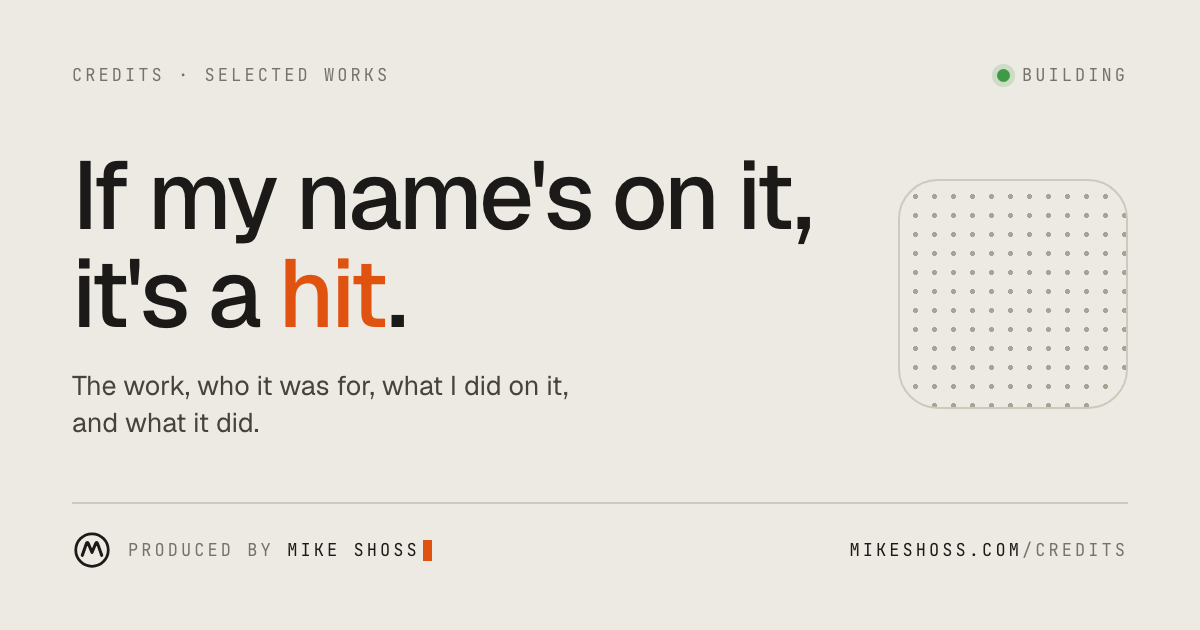
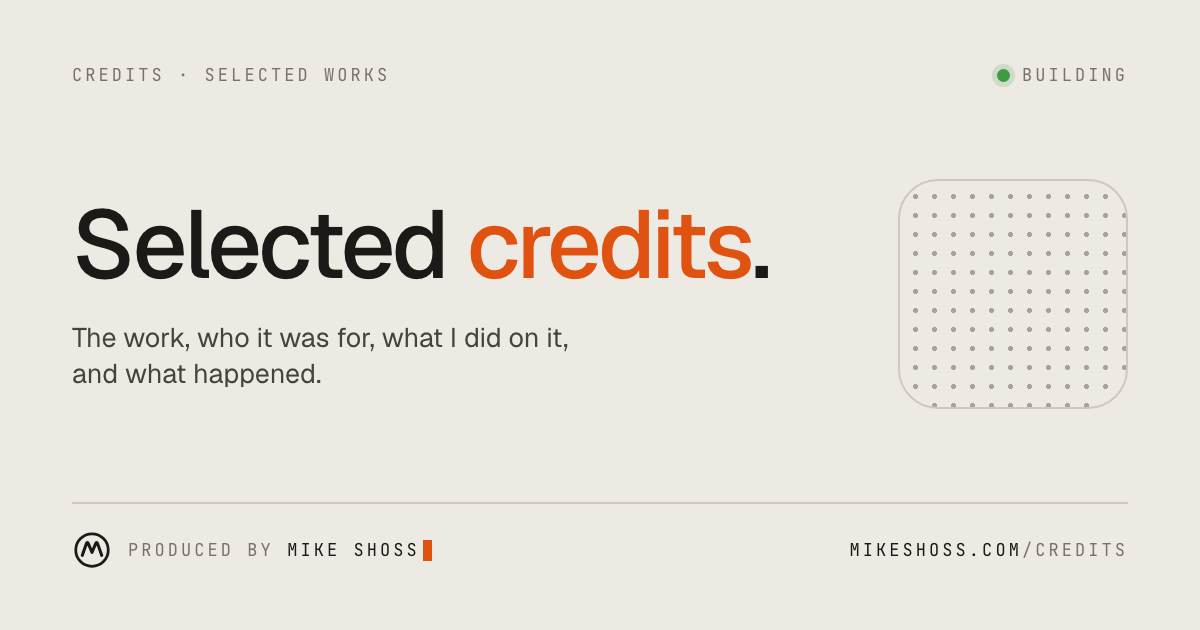
Pulled the voice back: no 'it's a hit' claims, credits say what I did (Led product, Built the team, Led), 'Work with me' instead of 'Book the studio', producer tag only in the footer
Claude-Session: https://claude.ai/code/session_01PXLdws1ZUYVP4QoPYJzYg7

Changed region(s): [[0.0617, 0.2413, 0.6783, 0.6333], [0.0617, 0.6635, 0.2158, 0.6937]]

diff --git a/src/data/content.ts b/src/data/content.ts
@@ -139,7 +139,7 @@ export const site = {
    * twitter:description and the JSON-LD Person description. Keep it under 160.
    */
   description:
-    `Mike Shoss ships AI products in industries where being wrong is expensive. Founder of Epilogue. ${patentCount} patents in AI. If his name's on it, it's a hit.`,
+    `Mike Shoss ships AI products in industries where being wrong is expensive. Founder of Epilogue. ${patentCount} patents in AI.`,
   url: "https://mikeshoss.com",
   linkedin: "https://www.linkedin.com/in/mikeshoss",
   github: "https://github.com/mikeshoss",
@@ -257,7 +257,7 @@ export interface Credit {
   label: string;
   year: string;
   /** What Mike did on it, in one or two words. */
-  credit: "Produced" | "Founded" | "Built" | "Engineered" | "Inventor" | "Advised" | "Strategy";
+  credit: "Led product" | "Led" | "Built the team" | "Founded" | "Built" | "Inventor" | "Advised" | "Strategy";
   /** The result, with the number first where there is one. */
   result: string;
   href?: string;
@@ -268,28 +268,28 @@ export const credits: Credit[] = [
     work: "Verity Docs",
     label: "Caseware",
     year: "2026",
-    credit: "Produced",
+    credit: "Led product",
     result: "75% less document work against a 50% target. 97% extraction accuracy. 100% weekly active use.",
   },
   {
     work: "Caseware Studio",
     label: "Caseware",
     year: "2025",
-    credit: "Founded",
+    credit: "Built the team",
     result: "A 43-person product org shipping validated prototypes in 24 hours and production features in a week. Cycle times down 80%.",
   },
   {
     work: "ISO/IEC 42001 AI management system",
     label: "Caseware",
     year: "2025",
-    credit: "Engineered",
+    credit: "Led",
     result: "Governance built into the release pipeline. Compliance turned from a blocker into a sales accelerant.",
   },
   {
     work: "ContractorOS",
     label: "FacilityOS",
     year: "2024",
-    credit: "Produced",
+    credit: "Led product",
     result: "0 to 1 in six months. 37% faster compliance, +20 NPS, 90% retention.",
   },
   {
@@ -303,7 +303,7 @@ export const credits: Credit[] = [
     work: "AI across the player",
     label: "Firework",
     year: "2022",
-    credit: "Produced",
+    credit: "Led product",
     result: "Engagement up 400%, conversions doubled. A 60-person team across five product lines.",
   },
   {
@@ -318,14 +318,14 @@ export const credits: Credit[] = [
     work: "Self-serve SaaS",
     label: "Firework",
     year: "2021",
-    credit: "Produced",
+    credit: "Led product",
     result: "ARR up 10x.",
   },
   {
     work: "From ads to SaaS",
     label: "VerticalScope",
     year: "2020",
-    credit: "Produced",
+    credit: "Led product",
     result: "1,500+ sites unified on one platform. 17% month-over-month growth.",
   },
   {
@@ -376,7 +376,7 @@ export interface Call {
 
 /**
  * The studio: where the work is booked. This site is the producer; Epilogue
- * is the studio. "Book the studio" buttons point here, tagged with
+ * is the studio. "Work with me" buttons point here, tagged with
  * withCampaign at each placement.
  */
 export const studio = { name: "Epilogue", url: "https://epiloguelabs.com" };

diff --git a/src/pages/palette.json.ts b/src/pages/palette.json.ts
@@ -83,7 +83,7 @@ const actions: Item[] = [
   { t: "Copy my email", h: site.email, g: "Actions", a: "copy", v: site.email, k: "mail contact" },
   { t: "Open LinkedIn", h: "↗", g: "Actions", u: site.linkedin, x: true, k: "message dm" },
   { t: "Open GitHub", h: "↗", g: "Actions", u: site.github, x: true, k: "code" },
-  { t: "Book the studio", h: "Epilogue ↗", g: "Actions", u: "https://epiloguelabs.com/?utm_source=mikeshoss&utm_medium=referral&utm_content=command-menu", x: true, k: "epilogue book work consulting hire studio" },
+  { t: "Work with me", h: "Epilogue ↗", g: "Actions", u: "https://epiloguelabs.com/?utm_source=mikeshoss&utm_medium=referral&utm_content=command-menu", x: true, k: "epilogue book work consulting hire studio" },
   { t: "Play the producer tag", h: "Sound", g: "Actions", a: "tag", k: "sound music hit" },
   { t: "Copy an API curl", h: "curl", g: "Actions", a: "copy", v: `curl ${site.url}/api/index.json`, k: "developer json" },
   { t: "Copy the MCP server URL", h: "MCP", g: "Actions", a: "copy", v: `${site.url}/mcp`, k: "agents claude" },

diff --git a/scripts/og-image.html b/scripts/og-image.html
@@ -3,7 +3,7 @@
   Source for every social card: public/og-image.png (the default) and the
   per-page cards in public/og/. One template, driven by the query string:
 
-    ?eyebrow=Credits&title=If my name's on it, it's a *hit*.&sub=...&path=/credits
+    ?eyebrow=Credits&title=Selected *credits*.&sub=...&path=/credits
 
   *word* marks the one word set in signal orange, as on the site.
 
